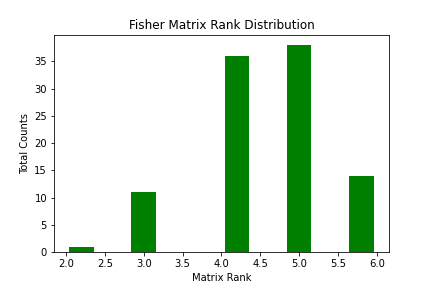
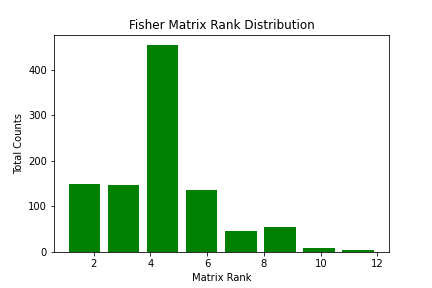
Fix Fisher Calculation, Model now appends Logits and Softmax Probability (will fix the training py code at a later date). Cleaned up unused Fisher Code

diff --git a/networks/e2attention.py b/networks/e2attention.py
@@ -141,15 +141,16 @@ class DNSteerableAGRadGalNet(nn.Module):
                     self.classifier = nn.Linear(concat_length, n_classes)
                     self.aggregate = self.aggregation_ds
                 elif aggregation_mode == 'ft':
-                    self.classifier = nn.Linear(n_classes*self.ag, n_classes)
+                    self.classifier = nn.Linear(n_classes*self.ag, n_classes) #times4
                     self.aggregate = self.aggregation_ft
                 else:
                     raise NotImplementedError
         else:
-            self.classifier = nn.Linear((150//16)**2*64, n_classes)
+            self.classifier = nn.Linear(((150//16)**2*64), n_classes)
             self.aggregate = lambda x: self.classifier(self.flatten(x))
 
-
+        #Set up random weights for the last classifier layer
+        
         ####################
         # I wonder if I can get away with this? I dont know.
         # initialise weights
@@ -295,7 +296,7 @@ class DNSteerableAGRadGalNet(nn.Module):
                 raise NotImplementedError
             return out
         else:
-            return F.softmax(out,dim=1)
+            return out, F.softmax(out,dim=1)
 
 
 

diff --git a/utils/utils.py b/utils/utils.py
@@ -64,7 +64,14 @@ def load_model(config, load_model='best', path_supliment='', device=torch.device
         MODEL_PATH = config['output']['directory'] +'/'+ path_supliment + str(load_model) + '.pt'
     
     model = globals()[config['model']['base']](**config['model']).to(device)
-    model.load_state_dict(torch.load(MODEL_PATH))
+    pretrained_dict = torch.load(MODEL_PATH)
+    model_dict = model.state_dict()
+    #modified the load_state_dict to allow for skipping layers not in the pt file
+    pretrained_dict = {k: v for k, v in pretrained_dict.items() if (k in model_dict) and (model_dict[k].shape == pretrained_dict[k].shape)}
+    # 2. overwrite entries in the existing state dict
+    model_dict.update(pretrained_dict)
+    model.load_state_dict(model_dict, strict=False)
+    
     model.eval()
     
     return model

diff --git a/utils/fisher.py b/utils/fisher.py
@@ -100,3 +100,8 @@ def calc_rank(fisher):
         rank = torch.matrix_rank(fishercpu).item()
         Rank.append(rank)
         return Rank;
+    
+def normalise(Fishers):
+    num_samples = len(Fishers)
+    TrF_integral = (1 / num_samples) * np.sum(np.array([torch.trace(F) for F in Fishers]))
+    return [((12) / TrF_integral) * F for F in Fishers]
